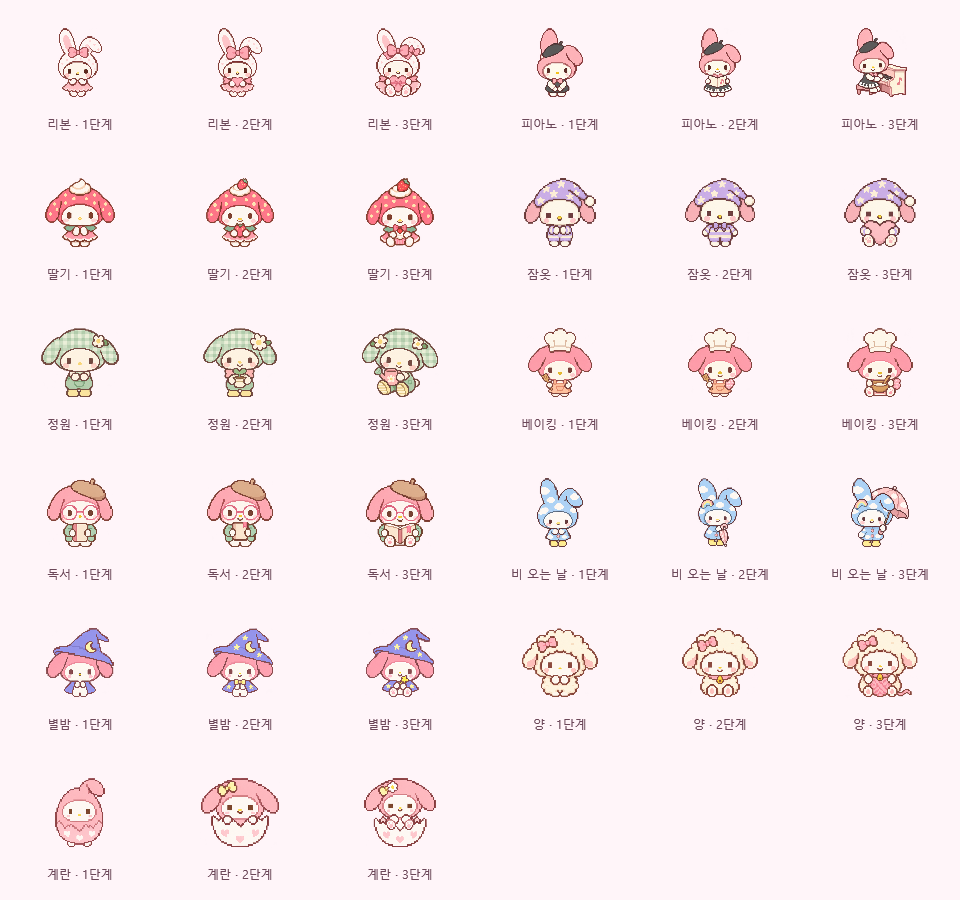
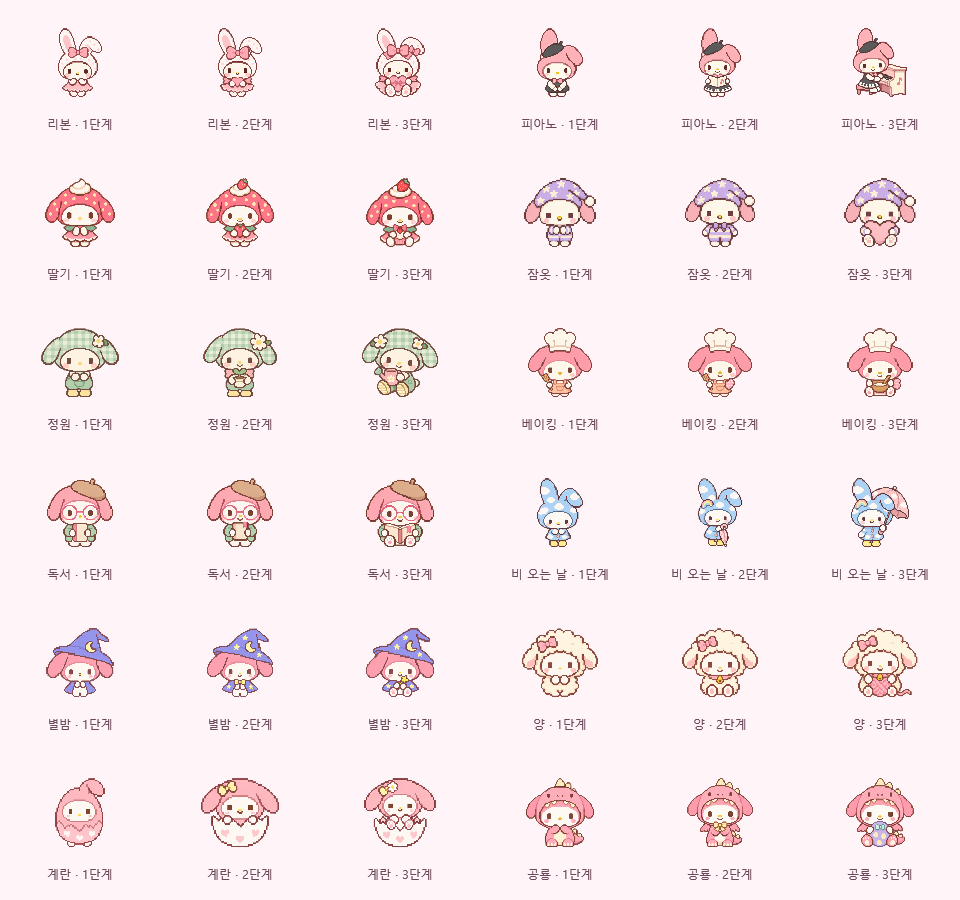
Add a dinosaur companion while preserving existing art and display size

diff --git a/tests/MyMelody.Tests/LegacyCatalogTests.cs b/tests/MyMelody.Tests/LegacyCatalogTests.cs
@@ -9,24 +9,29 @@ namespace MyMelody.Tests;
 
 public sealed class LegacyCatalogTests : IDisposable
 {
-    // Freeze the shipped v1.0.2 IDs and storage format independently of the current catalog.
-    private static readonly string[] LegacyIds =
+    // Freeze the shipped catalogs and storage format independently of the current catalog.
+    private static readonly string[] Version102Ids =
         ["ribbon", "piano", "strawberry", "pajamas", "garden", "baking", "reading", "rain", "starry"];
+    private static readonly string[] Version111Ids = [.. Version102Ids, "sheep", "egg"];
     private readonly string _directory = Path.Combine(Path.GetTempPath(), "MyMelodyTests", Guid.NewGuid().ToString("N"));
     private readonly FakeTime _clock = new(new DateTimeOffset(2026, 9, 14, 12, 0, 0, TimeSpan.Zero));
     private PracticeManager Open() => new(_directory, _clock, TimeZoneInfo.Utc);
 
-    [Fact]
-    public void CompletedLegacyCollectionKeepsItsHistoryAndUnlocksOnlySheepAndEgg()
+    [Theory]
+    [InlineData(9, "v1.0.2")]
+    [InlineData(11, "v1.1.1")]
+    public void CompletedLegacyCollectionKeepsItsHistoryAndUnlocksOnlyAddedCharacters(int legacyCount, string legacyVersion)
     {
-        Assert.Equal(LegacyIds, CharacterCatalog.All.Take(9).Select(x => x.Id));
-        Assert.Equal(new[] { "sheep", "egg" }, CharacterCatalog.All.Skip(9).Select(x => x.Id));
-        string legacyBackup = WriteLegacyStore(36 * 3600);
+        string[] legacyIds = GetLegacyIds(legacyCount);
+        string[] addedIds = legacyCount == 9 ? ["sheep", "egg", "dinosaur"] : ["dinosaur"];
+        Assert.Equal(legacyIds, CharacterCatalog.All.Take(legacyCount).Select(x => x.Id));
+        Assert.Equal(addedIds, CharacterCatalog.All.Skip(legacyCount).Select(x => x.Id));
+        string legacyBackup = WriteLegacyStore(legacyIds, legacyVersion, 36 * 3600);
         string characters, sessions, settings;
         using (var legacy = Open())
         {
-            Assert.Equal(9 * 36 * 3600, legacy.TotalSeconds);
-            Assert.Equal("starry", legacy.State.GrowingCharacterId);
+            Assert.Equal(legacyCount * 36 * 3600, legacy.TotalSeconds);
+            Assert.Equal(legacyIds[^1], legacy.State.GrowingCharacterId);
             Assert.Equal("strawberry", legacy.State.DisplayCharacterId);
             Assert.True(legacy.State.CanDraw);
             Assert.False(legacy.IsPracticing);
@@ -42,10 +47,10 @@ public sealed class LegacyCatalogTests : IDisposable
         Assert.Equal(settings, JsonSerializer.Serialize(manager.Settings));
         var originalSessionIds = manager.Sessions.Select(x => x.Id).ToHashSet();
         var newIds = new HashSet<string>();
-        for (int i = 0; i < 2; i++)
+        for (int i = 0; i < addedIds.Length; i++)
         {
             var added = manager.Draw();
-            Assert.Contains(added.Id, new[] { "sheep", "egg" });
+            Assert.Contains(added.Id, addedIds);
             Assert.True(newIds.Add(added.Id));
             Assert.Equal(0, added.PracticeSeconds);
             Assert.Equal(1, added.Stage);
@@ -63,12 +68,12 @@ public sealed class LegacyCatalogTests : IDisposable
             Assert.True(added.IsComplete);
             manager.StopManual();
         }
-        Assert.Equal(11, manager.State.Characters.Count);
+        Assert.Equal(12, manager.State.Characters.Count);
         Assert.False(manager.State.CanDraw);
         Assert.Throws<InvalidOperationException>(() => manager.Draw());
-        Assert.Equal(characters, JsonSerializer.Serialize(manager.State.Characters.Take(9)));
+        Assert.Equal(characters, JsonSerializer.Serialize(manager.State.Characters.Take(legacyCount)));
         Assert.Equal(sessions, JsonSerializer.Serialize(manager.Sessions.Where(x => originalSessionIds.Contains(x.Id))));
-        Assert.Equal(11 * 36 * 3600, manager.TotalSeconds);
+        Assert.Equal(12 * 36 * 3600, manager.TotalSeconds);
 
         string expandedBackup = Path.Combine(_directory, "expanded.zip");
         manager.Backup(expandedBackup);
@@ -79,28 +84,51 @@ public sealed class LegacyCatalogTests : IDisposable
         Assert.Equal(sessions, JsonSerializer.Serialize(manager.Sessions));
         Assert.Equal(settings, JsonSerializer.Serialize(manager.Settings));
         Assert.Equal("strawberry", manager.State.DisplayCharacterId);
-        Assert.Equal("starry", manager.State.GrowingCharacterId);
+        Assert.Equal(legacyIds[^1], manager.State.GrowingCharacterId);
         Assert.True(manager.State.CanDraw);
 
         manager.Restore(expandedBackup);
         Assert.Equal(expandedState, JsonSerializer.Serialize(manager.State));
         Assert.Equal(expandedSessions, JsonSerializer.Serialize(manager.Sessions));
+        Assert.Equal(settings, JsonSerializer.Serialize(manager.Settings));
         Assert.False(manager.State.CanDraw);
         manager.StartManual();
         Advance(manager, 30);
-        Assert.Equal(11 * 36 * 3600 + 30, manager.TotalSeconds);
+        Assert.Equal(12 * 36 * 3600 + 30, manager.TotalSeconds);
         Assert.All(manager.State.Characters, c => Assert.Equal(36 * 3600, c.PracticeSeconds));
         Assert.Equal(expandedState, JsonSerializer.Serialize(manager.State));
     }
 
-    [Fact]
-    public void UnfinishedLegacyCharacterMustFinishBeforeAnyAddedCharacterCanBeDrawn()
+    [Theory]
+    [InlineData(9, "v1.0.2")]
+    [InlineData(11, "v1.1.1")]
+    public void UnfinishedLegacyCharacterMustFinishBeforeAnyAddedCharacterCanBeDrawn(int legacyCount, string legacyVersion)
     {
-        WriteLegacyStore(13 * 3600);
+        string[] legacyIds = GetLegacyIds(legacyCount);
+        string[] addedIds = legacyCount == 9 ? ["sheep", "egg", "dinosaur"] : ["dinosaur"];
+        string legacyBackup = WriteLegacyStore(legacyIds, legacyVersion, 13 * 3600);
+        string state, sessions, settings;
+        using (var legacy = Open())
+        {
+            state = JsonSerializer.Serialize(legacy.State);
+            sessions = JsonSerializer.Serialize(legacy.Sessions);
+            settings = JsonSerializer.Serialize(legacy.Settings);
+            legacy.Save();
+        }
         using var manager = Open();
-        Assert.Equal(8 * 36 * 3600 + 13 * 3600, manager.TotalSeconds);
+        Assert.Equal(state, JsonSerializer.Serialize(manager.State));
+        Assert.Equal(sessions, JsonSerializer.Serialize(manager.Sessions));
+        Assert.Equal(settings, JsonSerializer.Serialize(manager.Settings));
+        manager.StartManual();
+        Advance(manager, 5);
+        manager.Restore(legacyBackup);
+        Assert.Equal(state, JsonSerializer.Serialize(manager.State));
+        Assert.Equal(sessions, JsonSerializer.Serialize(manager.Sessions));
+        Assert.Equal(settings, JsonSerializer.Serialize(manager.Settings));
+        Assert.False(manager.IsPracticing);
+        Assert.Equal((legacyCount - 1) * 36 * 3600 + 13 * 3600, manager.TotalSeconds);
         var growing = manager.State.GrowingCharacter!;
-        Assert.Equal("starry", growing.Id);
+        Assert.Equal(legacyIds[^1], growing.Id);
         Assert.Equal(13 * 3600, growing.PracticeSeconds);
         Assert.Equal(2, growing.Stage);
         Assert.False(manager.State.CanDraw);
@@ -114,22 +142,29 @@ public sealed class LegacyCatalogTests : IDisposable
         Assert.NotNull(growing.CompletedAt);
         Advance(manager, 60);
         var next = manager.Draw();
-        Assert.Contains(next.Id, new[] { "sheep", "egg" });
+        Assert.Contains(next.Id, addedIds);
         Assert.Equal(0, next.PracticeSeconds);
         Assert.Equal(36 * 3600, growing.PracticeSeconds);
-        Assert.Equal(9 * 36 * 3600 + 60, manager.TotalSeconds);
+        Assert.Equal(legacyCount * 36 * 3600 + 60, manager.TotalSeconds);
     }
 
-    private string WriteLegacyStore(double lastPracticeSeconds)
+    private static string[] GetLegacyIds(int count) => count switch
+    {
+        9 => Version102Ids,
+        11 => Version111Ids,
+        _ => throw new ArgumentOutOfRangeException(nameof(count))
+    };
+
+    private string WriteLegacyStore(string[] legacyIds, string legacyVersion, double lastPracticeSeconds)
     {
         Directory.CreateDirectory(_directory);
         string databasePath = Path.Combine(_directory, "practice.sqlite");
         var start = new DateTimeOffset(2026, 8, 1, 8, 0, 0, TimeSpan.Zero);
-        var characters = LegacyIds.Select((id, index) => new
+        var characters = legacyIds.Select((id, index) => new
         {
-            Id = id, PracticeSeconds = index == 8 ? lastPracticeSeconds : 36 * 3600,
+            Id = id, PracticeSeconds = index == legacyIds.Length - 1 ? lastPracticeSeconds : 36 * 3600,
             AcquiredAt = start.AddDays(index * 3),
-            CompletedAt = index == 8 && lastPracticeSeconds < 36 * 3600
+            CompletedAt = index == legacyIds.Length - 1 && lastPracticeSeconds < 36 * 3600
                 ? (DateTimeOffset?)null : start.AddDays(index * 3 + 2).AddHours(12)
         }).ToArray();
         using (var connection = new SqliteConnection($"Data Source={databasePath};Pooling=False"))
@@ -148,7 +183,7 @@ public sealed class LegacyCatalogTests : IDisposable
                 """;
             command.Parameters.AddWithValue("$json", JsonSerializer.Serialize(new
             {
-                State = new { Characters = characters, GrowingCharacterId = "starry", DisplayCharacterId = "strawberry" },
+                State = new { Characters = characters, GrowingCharacterId = legacyIds[^1], DisplayCharacterId = "strawberry" },
                 Settings = new
                 {
                     MidiDeviceId = "legacy-keyboard", CharacterSize = 144, CharacterLeft = 80, CharacterTop = 120,
@@ -178,14 +213,14 @@ public sealed class LegacyCatalogTests : IDisposable
                 }
             }
         }
-        string backupPath = Path.Combine(_directory, "v1.0.2-legacy.zip");
+        string backupPath = Path.Combine(_directory, $"{legacyVersion}-legacy.zip");
         byte[] database = File.ReadAllBytes(databasePath);
         using var archive = ZipFile.Open(backupPath, ZipArchiveMode.Create);
         using (var stream = archive.CreateEntry("practice.sqlite").Open()) stream.Write(database);
         using var manifest = archive.CreateEntry("manifest.json").Open();
         JsonSerializer.Serialize(manifest, new
         {
-            Application = "MyMelodyPractice", SchemaVersion = 1, CreatedAt = start.AddDays(30),
+            Application = "MyMelodyPractice", SchemaVersion = 1, CreatedAt = start.AddDays(legacyIds.Length * 3 + 1),
             Sha256 = Convert.ToHexString(SHA256.HashData(database))
         });
         return backupPath;

diff --git a/src/MyMelody.App/UiSmoke.cs b/src/MyMelody.App/UiSmoke.cs
@@ -234,15 +234,28 @@ internal static class UiSmoke
         double maximumDipHeight = dpiMeasurements.Max(item => item.VisibleHeight / item.Scale);
         if (maximumDipHeight - minimumDipHeight > heightTolerance)
             failures.Add($"DPI changed the logical visible height: {minimumDipHeight:0.00}–{maximumDipHeight:0.00} DIP.");
+
+        // A comparison within the current catalog cannot catch every character shrinking
+        // together after a wide costume is added. Keep the released v1.1.1 pixel baseline.
+        var defaultMeasurements = measurements.Where(item => item.DipSize == 96 && item.Scale == 1).ToList();
+        int expectedExpressions = CharacterCatalog.All.Count * SpriteSheet.Stages * SpriteSheet.Columns;
+        if (defaultMeasurements.Count != expectedExpressions)
+            failures.Add($"The released size baseline is missing expressions: expected {expectedExpressions}, found {defaultMeasurements.Count}.");
+        foreach (var item in defaultMeasurements)
+            if (item.VisibleHeight != 69 || item.Bottom != 84)
+                failures.Add($"Character differs from the released size: {item.Id} stage {item.Stage}, blink={item.Blink}, expected 69 px height / y84 baseline but rendered {item.VisibleHeight} px / y{item.Bottom}.");
+
         File.WriteAllText(Path.Combine(output, "size-checks.json"), JsonSerializer.Serialize(new
         {
             success = failures.Count == 0, alphaThreshold = 16,
             tolerancesInPhysicalPixels = new { height = heightTolerance, baseline = baselineTolerance, blinkCenter = centerTolerance },
+            releasedSizeBaseline = new { referenceVersion = "1.1.1", dipSize = 96, scale = 1, visibleHeight = 69, bottom = 84, expectedExpressions, measuredExpressions = defaultMeasurements.Count },
             configurations = summaries, minimumDipHeight, maximumDipHeight, measurements, failures
         }, new JsonSerializerOptions { WriteIndented = true, PropertyNamingPolicy = JsonNamingPolicy.CamelCase }));
         if (failures.Count != 0)
             throw new InvalidDataException("Character size regression; see size-checks.json. " + string.Join(" ", failures.Take(5)));
         checks.Add($"All {CharacterCatalog.All.Count * SpriteSheet.Stages * SpriteSheet.Columns} actual sprite expressions retain uniform visible height, a common baseline, and stable blink alignment at 96 DIP with 100/150/200% DPI and at 48/384 DIP; geometry differs by at most 2 physical pixels for height and 1 for baseline or blink center.");
+        checks.Add($"All {expectedExpressions} expressions, including newly added characters, match the exact 69-pixel visible height and y84 baseline released in v1.1.1 at 96 DIP / 100%.");
     }
 
     private static SpriteSizeMeasurement MeasureSprite(BitmapSource bitmap, string id, int stage, bool blink, int dipSize, double scale)

diff --git a/src/MyMelody.App/SpritePresentation.cs b/src/MyMelody.App/SpritePresentation.cs
@@ -10,6 +10,9 @@ internal static class SpritePresentation
 {
     private const double CanvasSize = 512;
     private const double ContentLimit = 480;
+    // Preserve the shipped v1.1.1 height (its widest costume was 419 by 368 pixels).
+    // New costumes must fit this size instead of resizing every existing friend.
+    private const double VisibleHeight = 480d * 368 / 419;
     private const double Baseline = 496;
     private const byte VisibleAlpha = 16;
     private const int EdgePadding = 2;
@@ -40,13 +43,12 @@ internal static class SpritePresentation
             }
         }
 
-        // Every appearance has the same height. The widest costume sets the available width.
-        double widestAspect = pairs.Count == 0 ? 1 : pairs.Max(pair => pair.Width / (double)pair.Height);
-        double height = ContentLimit / Math.Max(1, widestAspect);
         var result = new Dictionary<(string, int, bool), ImageSource>();
         foreach (var pair in pairs)
         {
-            double scale = height / pair.Height;
+            double scale = VisibleHeight / pair.Height;
+            if (pair.Width * scale > ContentLimit + 0.001)
+                throw new InvalidDataException($"Character {pair.Id}, stage {pair.Stage}, is too wide for the fixed display size; keep its costume and props more compact.");
             result[(pair.Id, pair.Stage, false)] = Draw(pair.Open, scale);
             result[(pair.Id, pair.Stage, true)] = Draw(pair.Blink, scale);
         }

diff --git a/src/MyMelody.Core/Models.cs b/src/MyMelody.Core/Models.cs
@@ -11,7 +11,8 @@ public sealed record CharacterDefinition(string Id, string Name, string Emoji, s
         "garden" => "매일 조금씩 피어나는 마음", "baking" => "차곡차곡 구워지는 자신감",
         "reading" => "한 페이지씩 쌓이는 이야기", "rain" => "빗소리와 함께하는 작은 연주",
         "starry" => "별빛 아래에서 만나는 단짝", "sheep" => "몽실몽실 포근하게 감싸는 응원",
-        "egg" => "작은 껍질에서 피어나는 새 멜로디", _ => "함께 연습하며 자라는 단짝"
+        "egg" => "작은 껍질에서 피어나는 새 멜로디", "dinosaur" => "작은 발걸음으로 함께하는 음악 탐험",
+        _ => "함께 연습하며 자라는 단짝"
     };
 }
 
@@ -29,7 +30,8 @@ public static class CharacterCatalog
         new CharacterDefinition("rain", "비 오는 날", "☂", "#B9D8E7"),
         new CharacterDefinition("starry", "별밤", "✦", "#C1C5E8"),
         new CharacterDefinition("sheep", "양", "🐑", "#E7DBEC"),
-        new CharacterDefinition("egg", "계란", "🥚", "#F5DFAD")
+        new CharacterDefinition("egg", "계란", "🥚", "#F5DFAD"),
+        new CharacterDefinition("dinosaur", "공룡", "🦕", "#F2BDD0")
     });
     public static CharacterDefinition Get(string id) => All.FirstOrDefault(x => x.Id == id)
         ?? throw new ArgumentException("알 수 없는 캐릭터입니다.", nameof(id));

diff --git a/docs/art-prompts.md b/docs/art-prompts.md
@@ -1,11 +1,11 @@
 # 캐릭터 아트 제작 기록
 
-이 앱의 캐릭터 그림은 사용자가 첨부한 도트 마이멜로디를 스타일 참고로 삼아, Codex의 **내장 imagegen** 도구로 새로 제작했습니다. 1.1.0에서는 추가로 제공한 의상·계란 도트를 참고해 기존 9종을 리메이크하고 양·계란 2종을 추가했습니다. 첨부 그림 자체나 서명을 앱 자산으로 복사하지 않았습니다. CLI/API 대체 경로는 사용하지 않았습니다.
+이 앱의 캐릭터 그림은 사용자가 첨부한 도트 마이멜로디를 스타일 참고로 삼아, Codex의 **내장 imagegen** 도구로 새로 제작했습니다. 1.1.0에서는 추가로 제공한 의상·계란 도트를 참고해 기존 9종을 리메이크하고 양·계란 2종을 추가했습니다. 1.2.0의 공룡은 새 첨부 이미지에서 코스튬 콘셉트만 참고하고 기존 도트 그림체로 만들었습니다. 첨부 그림 자체나 서명을 앱 자산으로 복사하지 않았습니다. CLI/API 대체 경로는 사용하지 않았습니다.
 
 ## 최종 파일 규격
 
 - 위치: `src/MyMelody.App/Assets/Characters/{id}.png`
-- 11종 × 3단계 × 2표정 = 66개 프레임을 11개 PNG 시트에 담았습니다. 한 시트는 2열×3행, 전체 비율은 2:3입니다.
+- 12종 × 3단계 × 2표정 = 72개 프레임을 12개 PNG 시트에 담았습니다. 한 시트는 2열×3행, 전체 비율은 2:3입니다.
 - 왼쪽 열은 눈 뜬 모습, 오른쪽 열은 눈 감는 모습입니다. 위에서부터 1·2·3단계이며 정사각형 셀을 같은 크기로 잘라 표시합니다.
 - 실제 알파 채널이 있는 투명 PNG 원본을 그대로 포함합니다. 앱에서는 WPF `CroppedBitmap`으로 프레임을 선택하고 작은 위치 이동과 함께 재생합니다.
 - 캐릭터는 기본 96 DIP, 관리창에서 약 200 DIP로 표시합니다. 별도의 이미지 확대 편집 없이 앱에서 표시 크기만 조정합니다.
@@ -26,6 +26,7 @@
 | starry | 별밤 | 별빛 마법사 모자·망토 | 별 장식·미소 | 별 지팡이 |
 | sheep | 양 | 복슬복슬한 양 모자·양옷 | 방울 목걸이·미소 | 품에 안은 실뭉치 |
 | egg | 계란 | 얼굴이 보이는 동그란 분홍 알 | 금이 간 흰 껍데기·노란 리본 | 알에서 깨어난 모습·작은 꽃 |
+| dinosaur | 공룡 | 분홍 공룡 모자·작은 꼬리·크림 배 | 작은 날개·등 장식·노란 리본 | 노란 물방울무늬 알·민트 리본·앉은 자세 |
 
 성장 단계마다 표정과 소품이 추가됩니다. 같은 단계의 두 프레임은 눈 표정만 바뀌는 짧은 깜빡임으로 사용합니다. 성장 완료 연출과 연주 음표 반응은 앱에서 더합니다.
 
@@ -39,8 +40,10 @@ Create one transparent PNG sprite sheet with exactly two columns and three rows 
 
 ## 검수와 재생
 
-각 결과를 눈으로 확인한 뒤, PNG 픽셀 포맷·투명 배경 알파·2:3 시트 비율·개별 셀 규격·파일 수를 검사합니다. WPF 앱의 실제 렌더러로 기본 96 DIP에서 33개 모습을 모은 미리보기를 확인합니다. 코드로 캐릭터 그림을 대체하거나 배경을 지우지 않습니다.
+각 결과를 눈으로 확인한 뒤, PNG 픽셀 포맷·투명 배경 알파·2:3 시트 비율·개별 셀 규격·파일 수를 검사합니다. WPF 앱의 실제 렌더러로 기본 96 DIP에서 36개 모습을 모은 미리보기를 확인합니다. 코드로 캐릭터 그림을 대체하거나 배경을 지우지 않습니다.
 
-생성 원본의 투명 픽셀에는 배경색 RGB가 남아 있을 수 있지만 알파 값은 0이며, WPF에서는 투명하게 표시됩니다. 원본 알파를 유지한 채 프로젝트에 복사했습니다. 이전 버전의 27개 시트는 Git 이력에 남고, 새 배포에는 현재 11개 시트만 포함합니다. 캐릭터 ID는 이전 9종을 그대로 유지하며 개인 기록을 변환하거나 초기화하지 않습니다.
+생성 원본의 투명 픽셀에는 배경색 RGB가 남아 있을 수 있지만 알파 값은 0이며, WPF에서는 투명하게 표시됩니다. 원본 알파를 유지한 채 프로젝트에 복사했습니다. 이전 버전의 27개 시트는 Git 이력에 남고, 새 배포에는 현재 12개 시트만 포함합니다. 기존 캐릭터 ID는 그대로 유지하며 개인 기록을 변환하거나 초기화하지 않습니다.
 
 1.1.1부터는 PNG 원본을 그대로 두고 앱 표시 단계에서 크기를 통일합니다. 알파 16/255 이상인 외형을 측정하고 테두리 2픽셀을 덧대어 도트 가장자리를 보존합니다. 모든 단계의 높이와 바닥선을 맞추되, 가장 넓은 의상도 들어오도록 공통 높이를 정합니다. 눈 뜬 모습과 감은 모습에는 같은 배율을 쓰고 가로 중심·바닥선을 각각 정렬해 원본 시트의 좌우 위치 차이를 보정합니다. WPF의 최근접 이웃 표시를 유지하며 새 그림 생성이나 파일 재인코딩은 하지 않습니다.
+
+1.2.0에서는 그 공통 높이를 1.1.1 배포 당시 값으로 고정했습니다. 이후 추가되는 캐릭터도 같은 높이와 바닥선을 사용하며, 너무 넓은 소품으로 정해진 표시 폭을 넘으면 배포 검사가 거부합니다. 공룡을 추가하면서 기존 11개 PNG를 수정하거나 재생성하지 않았습니다.

diff --git a/docs/release-notes.md b/docs/release-notes.md
@@ -1,9 +1,9 @@
-# 마이멜로디 연습 친구 1.1.1
+# 마이멜로디 연습 친구 1.2.0
 
-친구마다 보이는 크기가 달랐던 문제를 수정했습니다.
+분홍 공룡 코스튬을 입은 마이멜로디가 새로 왔어요. 이제 총 12종을 만날 수 있습니다.
 
-- 11종의 세 단계 모두 투명 여백을 제외한 실제 외형의 높이를 맞춥니다.
-- 얼굴·귀·옷·소품의 비율을 유지하면서 가로 중심과 바닥선을 정렬합니다.
-- 눈 깜빡임 그림의 좌우 위치 차이를 보정하고 같은 배율을 사용해 흔들림을 줄였습니다.
-- 바탕화면, 홈, 컬렉션에 동일한 크기 기준을 적용합니다. 크기 조절 기능도 그대로 사용할 수 있습니다.
-- 그림 원본과 기존 연습 기록·성장·컬렉션·설정은 유지됩니다.
+- 기존 도트 그림체와 부드러운 색감을 유지한 공룡 친구를 추가했습니다.
+- 작은 꼬리와 공룡 모자에서 시작해, 리본·등 장식·알 소품이 더해지는 세 단계로 성장합니다. 눈 깜빡임도 포함합니다.
+- 공룡도 기존 친구들과 같은 높이·바닥선으로 표시합니다. 새 캐릭터가 늘어나도 기존 친구들의 크기가 변하지 않도록 표시 기준을 고정했습니다.
+- 기존 11종을 모두 완성했다면 공룡을 바로 뽑을 수 있습니다. 미완성 친구가 있다면 먼저 성장을 마치면 됩니다.
+- 기존 그림 원본·연습 기록·경험치·수집 상태·설정은 그대로 유지됩니다.
